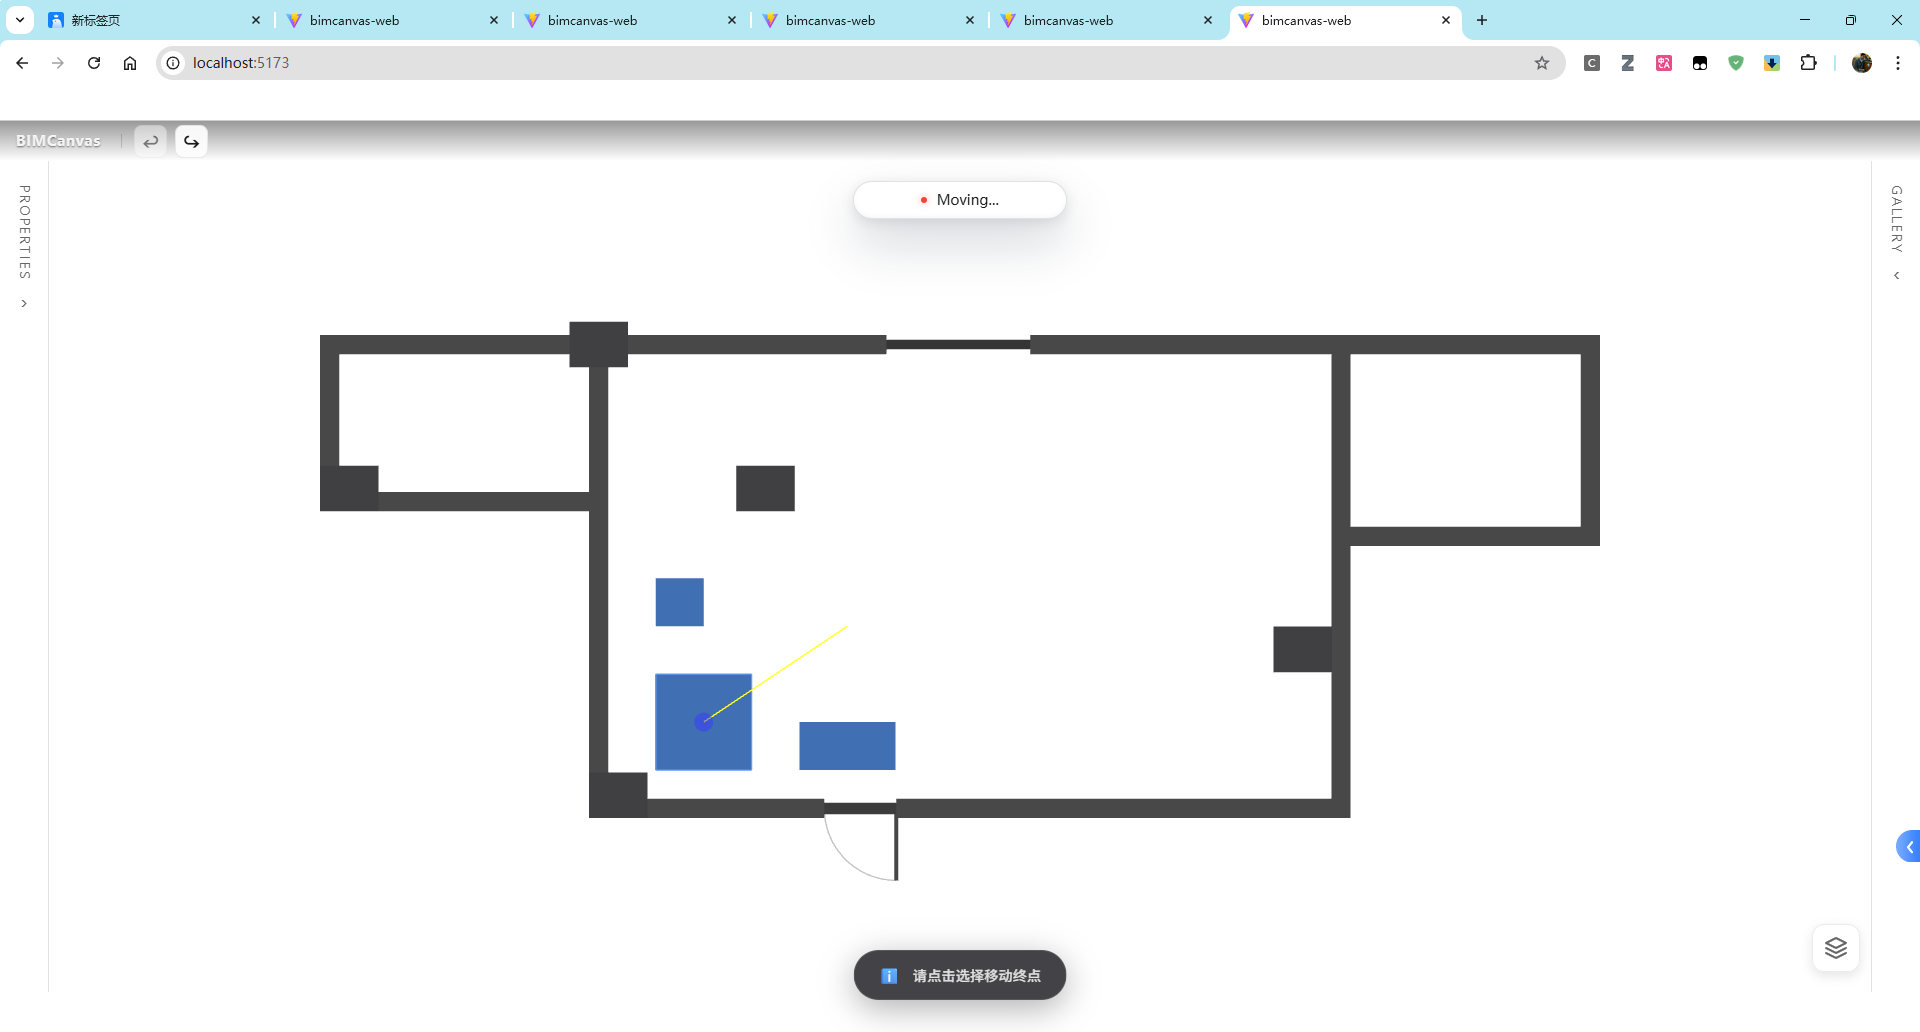
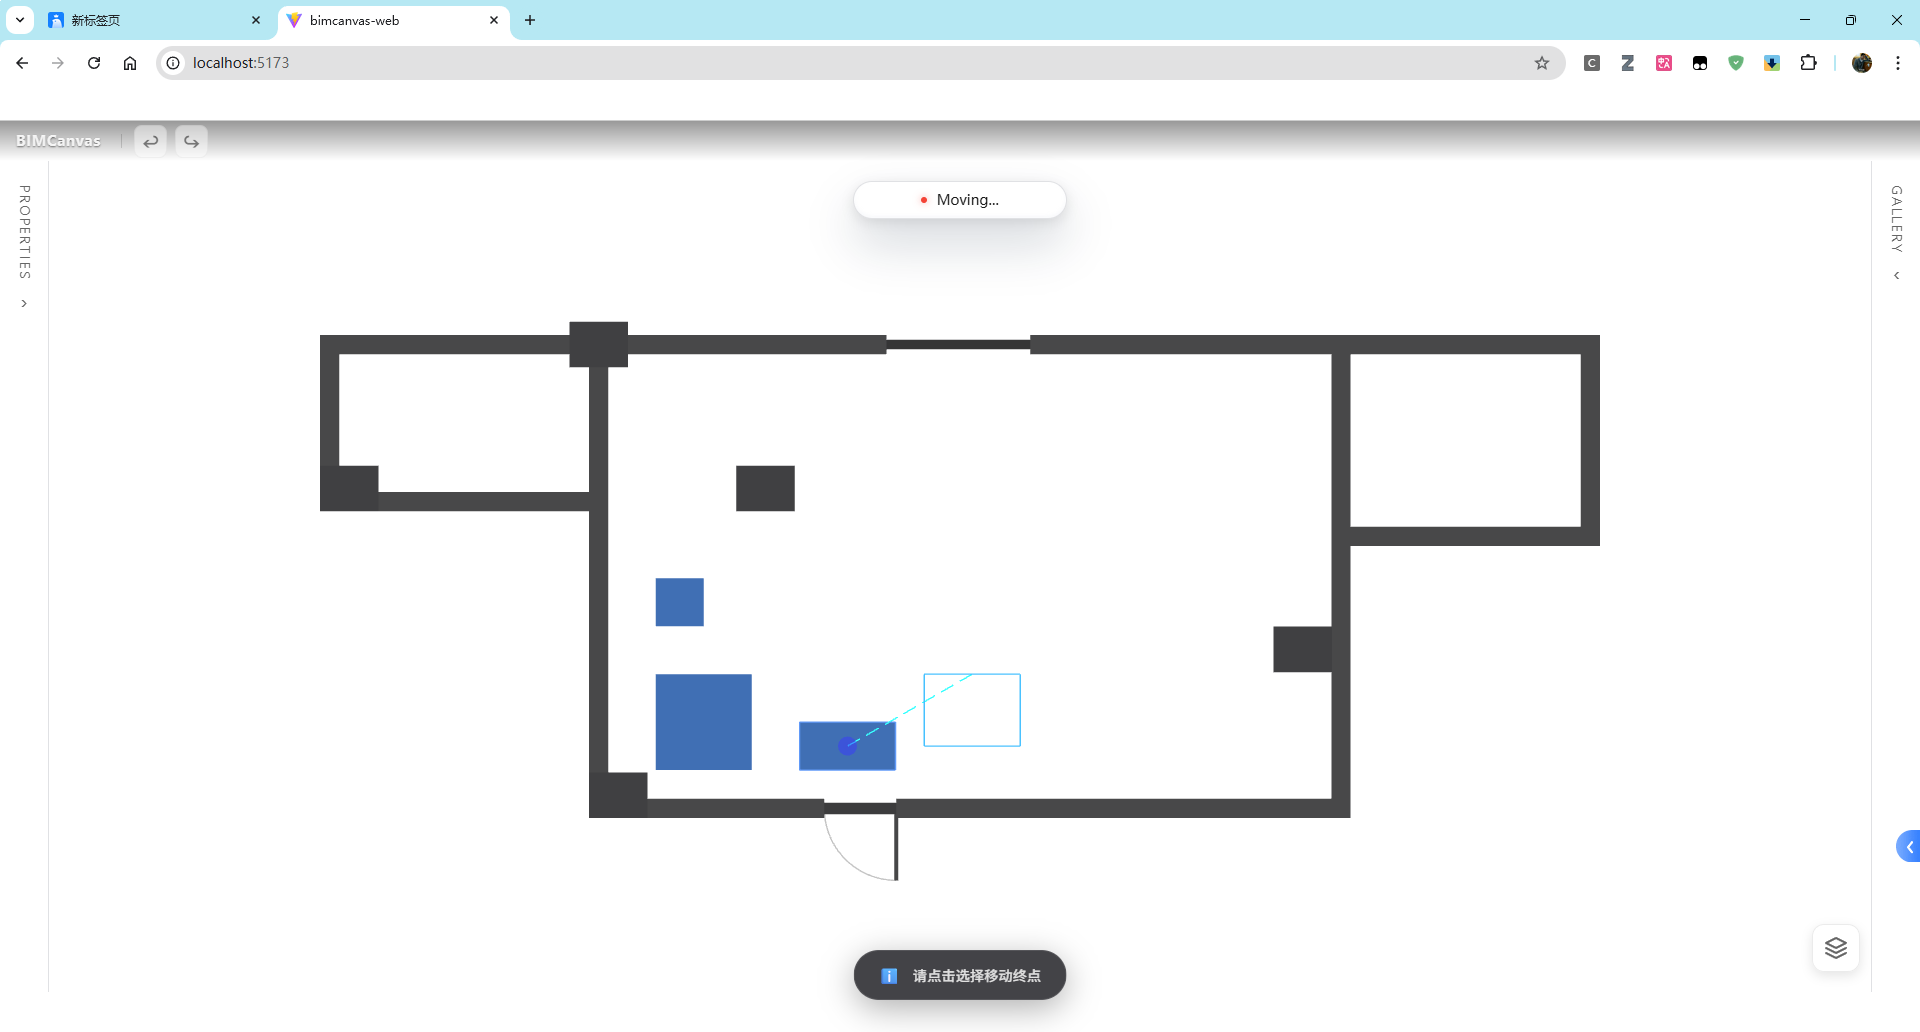
refactor: Ghost 系统优化 - Revit 轮廓线预览 + 避免遮挡 + 位置计算修复

diff --git a/BIMCanvas.Web/src/services/interaction/GhostManager.ts b/BIMCanvas.Web/src/services/interaction/GhostManager.ts
@@ -4,26 +4,26 @@ import { LayerManager } from '../three/LayerManager';
 /**
  * GhostManager - 管理拖拽/旋转时的预览幽灵对象
  * 支持多选模式：可以同时创建多个 Ghost
+ * 
+ * 位置逻辑（简化版）：
+ * - ghostGroup 初始位置在 (0,0,0)
+ * - clone 保留 original 的全部变换（position/rotation/scale）
+ * - setPositionOffset(offset) 设置 ghostGroup.position = offset
+ * - 结果：clone 世界位置 = offset + original.position
  */
 export class GhostManager {
     private static instance: GhostManager | null = null;
 
     private scene: THREE.Scene;
-    // 多选支持：使用 Map 存储多个 Ghost Group
     private ghostGroups: Map<string, THREE.Group> = new Map();
     private originalMaterials: Map<string, THREE.Material | THREE.Material[]> = new Map();
     private originalObjects: Map<string, THREE.Object3D> = new Map();
-
-    // 共享的旋转中心（多选旋转时使用）
     private sharedPivot: THREE.Vector3 | null = null;
 
     private constructor(scene: THREE.Scene) {
         this.scene = scene;
     }
 
-    /**
-     * 获取 GhostManager 单例实例
-     */
     public static getInstance(scene?: THREE.Scene): GhostManager {
         if (!GhostManager.instance) {
             if (!scene) {
@@ -34,9 +34,6 @@ export class GhostManager {
         return GhostManager.instance;
     }
 
-    /**
-     * 重置单例（仅用于测试或场景销毁时）
-     */
     public static resetInstance(): void {
         if (GhostManager.instance) {
             GhostManager.instance.removeAllGhosts();
@@ -44,92 +41,70 @@ export class GhostManager {
         }
     }
 
-    /**
-     * 创建单个 Ghost（兼容旧代码）
-     */
     public createGhost(original: THREE.Object3D) {
         this.createGhosts([original]);
     }
 
-    /**
-     * 批量创建多个 Ghost（多选模式）
-     */
     public createGhosts(originals: THREE.Object3D[]) {
         this.removeAllGhosts();
 
-        console.log('[GhostManager] Creating ghosts for', originals.length, 'objects');
+        const ghostColor = 0x00aaff;
 
         for (const original of originals) {
             const id = original.userData?.id;
-            if (!id) {
-                console.warn('[GhostManager] Object has no ID, skipping');
-                continue;
-            }
+            if (!id) continue;
 
-            console.log('[GhostManager] Processing object:', id, 'type:', original.type);
-
-            // 创建 Ghost Group
+            // Ghost Group 在原点
             const ghostGroup = new THREE.Group();
             ghostGroup.userData.isGhost = true;
-            // 确保 Ghost Group 在默认层可见
             ghostGroup.layers.set(LayerManager.LAYER_MODEL);
+            // 不设置 position/rotation/scale，保持默认值 (0,0,0)
             this.scene.add(ghostGroup);
 
-            // 克隆对象
-            const solidClone = original.clone();
-            solidClone.userData.isGhost = true;
+            // 克隆对象，保留完整的变换（position/rotation/scale）
+            const clone = original.clone();
+            clone.userData.isGhost = true;
+            ghostGroup.add(clone);
 
-            // 强制设置所有子对象的层为 LAYER_MODEL，确保可见
-            solidClone.traverse((child) => {
-                child.userData.isGhost = true;
+            // 隐藏 Mesh（只显示轮廓）
+            clone.traverse((child) => {
                 child.layers.set(LayerManager.LAYER_MODEL);
-
-                // 为 Ghost 设置半透明的蓝色材质，作为目标位置预览
+                child.userData.isGhost = true;
                 if (child instanceof THREE.Mesh) {
-                    child.material = new THREE.MeshBasicMaterial({
-                        color: 0x4488ff, // 蓝色
-                        transparent: true,
-                        opacity: 0.6,
-                        depthTest: true,
-                        side: THREE.DoubleSide
-                    });
+                    child.visible = false;
                 }
             });
 
-            ghostGroup.add(solidClone);
-            solidClone.position.copy(original.position);
-            solidClone.rotation.copy(original.rotation);
-            solidClone.scale.copy(original.scale);
+            // BoxHelper
+            const boxHelper = new THREE.BoxHelper(clone, ghostColor);
+            boxHelper.layers.set(LayerManager.LAYER_MODEL);
+            if (boxHelper.material instanceof THREE.LineBasicMaterial) {
+                boxHelper.material.depthTest = false;
+                boxHelper.material.transparent = true;
+                boxHelper.material.opacity = 0.9;
+            }
+            ghostGroup.add(boxHelper);
 
             // 存储
             this.ghostGroups.set(id, ghostGroup);
             this.originalObjects.set(id, original);
 
-            console.log('[GhostManager] Ghost created at position:', original.position.toArray());
-
-            // 将原对象变为半透明 wireframe（显示原始位置）
+            // Phantom 效果
             original.traverse((child) => {
                 if (child instanceof THREE.Mesh) {
                     this.originalMaterials.set(child.uuid, child.material);
-                    const ghostMaterial = new THREE.MeshBasicMaterial({
-                        color: 0xaaaaaa,
+                    child.material = new THREE.MeshBasicMaterial({
+                        color: 0xdddddd,
                         transparent: true,
                         opacity: 0.3,
                         depthTest: true,
-                        side: THREE.DoubleSide,
-                        wireframe: true
+                        side: THREE.DoubleSide
                     });
-                    child.material = ghostMaterial;
                 }
             });
         }
-
-        console.log('[GhostManager] Total ghosts created:', this.ghostGroups.size);
     }
 
-    /**
-     * 设置旋转中心（多选旋转时所有对象围绕同一中心）
-     */
     public setPivot(pivot: THREE.Vector3) {
         this.sharedPivot = pivot.clone();
 
@@ -140,24 +115,25 @@ export class GhostManager {
             ghostGroup.position.copy(pivot);
 
             ghostGroup.children.forEach(child => {
-                const originalWorldPos = original.position.clone();
-                child.position.subVectors(originalWorldPos, pivot);
+                if (!(child instanceof THREE.BoxHelper)) {
+                    const originalWorldPos = original.position.clone();
+                    child.position.subVectors(originalWorldPos, pivot);
+                }
+            });
+
+            ghostGroup.children.forEach(child => {
+                if (child instanceof THREE.BoxHelper) {
+                    child.update();
+                }
             });
         }
     }
 
-    /**
-     * 移除单个 Ghost（兼容旧代码，实际清除所有）
-     */
     public removeGhost() {
         this.removeAllGhosts();
     }
 
-    /**
-     * 移除所有 Ghost
-     */
     public removeAllGhosts() {
-        // 恢复原对象材质
         for (const [_id, original] of this.originalObjects) {
             original.traverse((child) => {
                 if (child instanceof THREE.Mesh && this.originalMaterials.has(child.uuid)) {
@@ -166,11 +142,10 @@ export class GhostManager {
             });
         }
 
-        // 清理 Ghost Groups
         for (const [_id, ghostGroup] of this.ghostGroups) {
             this.scene.remove(ghostGroup);
             ghostGroup.traverse((child) => {
-                if (child instanceof THREE.Mesh) {
+                if (child instanceof THREE.Mesh || child instanceof THREE.Line) {
                     child.geometry?.dispose();
                     if (Array.isArray(child.material)) {
                         child.material.forEach(m => m.dispose());
@@ -188,39 +163,28 @@ export class GhostManager {
     }
 
     /**
-     * 设置位置偏移（移动预览）- 作用于所有 Ghost
-     * 偏移是相对于原始对象位置的增量
+     * 设置位置偏移
+     * offset 来自 MoveTool：delta = actualPoint - basePoint
+     * clone 世界位置 = ghostGroup.position + clone.position = offset + original.position
      */
     public setPositionOffset(offset: THREE.Vector3) {
-        for (const [id, ghostGroup] of this.ghostGroups) {
-            const original = this.originalObjects.get(id);
-            if (!original) continue;
-
-            // Ghost Group 的子对象已经有了原始位置，直接设置 Group 的位置为偏移量即可
-            // 因为在 createGhosts 中，solidClone.position.copy(original.position)
+        for (const [_id, ghostGroup] of this.ghostGroups) {
             ghostGroup.position.copy(offset);
+            // 注意：不调用 boxHelper.update()，避免双重变换
         }
     }
 
-    /**
-     * 设置旋转角度（旋转预览）- 作用于所有 Ghost
-     */
     public setRotation(rotation: number) {
         for (const [_id, ghostGroup] of this.ghostGroups) {
             ghostGroup.rotation.y = -rotation;
+            // 注意：不调用 boxHelper.update()，避免双重变换
         }
     }
 
-    /**
-     * 获取是否有 Ghost
-     */
     public hasGhosts(): boolean {
         return this.ghostGroups.size > 0;
     }
 
-    /**
-     * 获取 Ghost 数量
-     */
     public getGhostCount(): number {
         return this.ghostGroups.size;
     }
